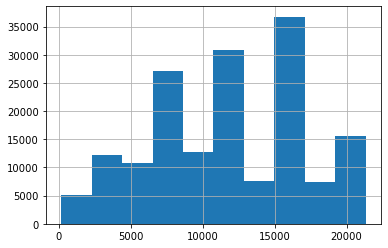
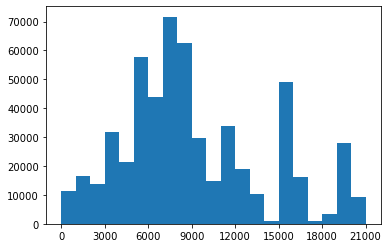
Raboti za histogram i za boxplot za pol

diff --git a/ClearDup.py b/ClearDup.py
@@ -4,6 +4,7 @@ Created on Fri Jul 22 14:41:00 2022
 
 @author: marko.ilioski
 """
+import matplotlib.pyplot as plt
 import pandas as pd
 import numpy as np
 
@@ -12,27 +13,34 @@ Train = pd.read_csv('train.csv')
 Train.drop_duplicates(inplace=True)
 
 #Detecting the Missing Values and filling them
-TrainWithoutNull = Train 
+TrainWithoutNull = Train
 Product_Category_1 = TrainWithoutNull['Product_Category_1'].unique()
 
 for i in Product_Category_1:
-    Product_Category_1Mean = TrainWithoutNull['Product_Category_2'].loc[TrainWithoutNull['Product_Category_1'] == i].mean()
-    TrainWithoutNull['Product_Category_2'].loc[TrainWithoutNull['Product_Category_1'] == i] = TrainWithoutNull['Product_Category_2'].loc[TrainWithoutNull['Product_Category_1'] == i].fillna(value = Product_Category_1Mean)
+    Product_Category_1Mean = TrainWithoutNull['Product_Category_2'].loc[TrainWithoutNull['Product_Category_1'] == i].mean(
+    )
+    TrainWithoutNull['Product_Category_2'].loc[TrainWithoutNull['Product_Category_1'] ==
+                                               i] = TrainWithoutNull['Product_Category_2'].loc[TrainWithoutNull['Product_Category_1'] == i].fillna(value=Product_Category_1Mean)
 
-TrainWithoutNull['Product_Category_2'] = TrainWithoutNull['Product_Category_2'].round(0)
-TrainWithoutNull['Product_Category_2'] = TrainWithoutNull['Product_Category_2'].fillna(value = 0)
+TrainWithoutNull['Product_Category_2'] = TrainWithoutNull['Product_Category_2'].round(
+    0)
+TrainWithoutNull['Product_Category_2'] = TrainWithoutNull['Product_Category_2'].fillna(
+    value=0)
 
 Product_Category_2 = TrainWithoutNull['Product_Category_2'].unique()
-print (Product_Category_2)
 
 
 for i in Product_Category_1:
     for j in Product_Category_2:
-        Product_Category_2Mean = TrainWithoutNull['Product_Category_3'].loc[(TrainWithoutNull['Product_Category_1'] == i) & (TrainWithoutNull['Product_Category_2'] == j)].mean()
-        TrainWithoutNull['Product_Category_3'].loc[(TrainWithoutNull['Product_Category_1'] == i) & (TrainWithoutNull['Product_Category_2'] == j)] = TrainWithoutNull['Product_Category_3'].loc[(TrainWithoutNull['Product_Category_1'] == i) & (TrainWithoutNull['Product_Category_2'] == j)].fillna(value = Product_Category_2Mean)
+        Product_Category_2Mean = TrainWithoutNull['Product_Category_3'].loc[(
+            TrainWithoutNull['Product_Category_1'] == i) & (TrainWithoutNull['Product_Category_2'] == j)].mean()
+        TrainWithoutNull['Product_Category_3'].loc[(TrainWithoutNull['Product_Category_1'] == i) & (TrainWithoutNull['Product_Category_2'] == j)] = TrainWithoutNull['Product_Category_3'].loc[(
+            TrainWithoutNull['Product_Category_1'] == i) & (TrainWithoutNull['Product_Category_2'] == j)].fillna(value=Product_Category_2Mean)
 
-TrainWithoutNull['Product_Category_3'] = TrainWithoutNull['Product_Category_3'].round(0)
-TrainWithoutNull['Product_Category_3'] = TrainWithoutNull['Product_Category_3'].fillna(value = 0)
+TrainWithoutNull['Product_Category_3'] = TrainWithoutNull['Product_Category_3'].round(
+    0)
+TrainWithoutNull['Product_Category_3'] = TrainWithoutNull['Product_Category_3'].fillna(
+    value=0)
 
 #Sreduvanje Outliers
 Q1_Purchase = TrainWithoutNull['Purchase'].quantile(0.25)
@@ -47,13 +55,23 @@ TrainWithoutOutliers = TrainWithoutNull[~OutlierFilter]
 
 
 #Histogram
-Train['Purchase'].hist()
-TrainWithoutNull['Purchase'].hist()
-TrainWithoutOutliers['Purchase'].hist()
+def histogram ():
+    Bins = range(0, 21400, 1000)
+    plt.hist(TrainWithoutOutliers['Purchase'], bins = Bins, color = '#3495eb')
+    plt.xticks(Bins[::3])
+    plt.title("Histogram")
+    plt.xlabel('Amount spent')
+    plt.ylabel('Number of people')
+    plt.show()
 
-#BoxPlot
-
-Train.boxplot( by = 'Gender', column = ['Purchase'])
-TrainWithoutNull.boxplot( by = 'Gender', column = ['Purchase'])
-TrainWithoutOutliers.boxplot( by = 'Gender', column = ['Purchase'])
-
+def boxPlotGender():
+    print (TrainWithoutOutliers['Gender'].loc[TrainWithoutOutliers['Gender'] == 'M'])
+    plt.boxplot([
+        TrainWithoutOutliers['Purchase'].loc[TrainWithoutOutliers['Gender'] == 'M'],
+        TrainWithoutOutliers['Purchase'].loc[TrainWithoutOutliers['Gender'] == 'F']],
+        labels=(['Male', 'Female']))
+    plt.xlabel('Sex')
+    plt.ylabel('Total Spent')
+    plt.show()
+    
+boxPlotGender()

diff --git a/PythonProject.py b/PythonProject.py
@@ -10,33 +10,6 @@ import numpy as np
 
 Train = pd.read_csv('train.csv')
 
-Product_Category_1 = Train['Product_Category_1'].unique()
-
-for i in Product_Category_1:
-    Product_Category_1Mean = Train['Product_Category_2'].loc[Train['Product_Category_1'] == i].mean()
-    Train['Product_Category_2'].loc[Train['Product_Category_1'] == i] = Train['Product_Category_2'].loc[Train['Product_Category_1'] == i].fillna(value = Product_Category_1Mean)
-
-Train['Product_Category_2'] = Train['Product_Category_2'].round(0)
-Train['Product_Category_2'] = Train['Product_Category_2'].fillna(value = 0)
-
-Product_Category_2 = Train['Product_Category_2'].unique()
-print (Product_Category_2)
-
-
-for i in Product_Category_1:
-    for j in Product_Category_2:
-        Product_Category_2Mean = Train['Product_Category_3'].loc[(Train['Product_Category_1'] == i) & (Train['Product_Category_2'] == j)].mean()
-        Train['Product_Category_3'].loc[(Train['Product_Category_1'] == i) & (Train['Product_Category_2'] == j)] = Train['Product_Category_3'].loc[(Train['Product_Category_1'] == i) & (Train['Product_Category_2'] == j)].fillna(value = Product_Category_2Mean)
-
-Train['Product_Category_3'] = Train['Product_Category_3'].round(0)
-Train['Product_Category_3'] = Train['Product_Category_3'].fillna(value = 0)
-
-
-
-
-
-
-
 print (Train.head())
 print (Train.tail())
 
